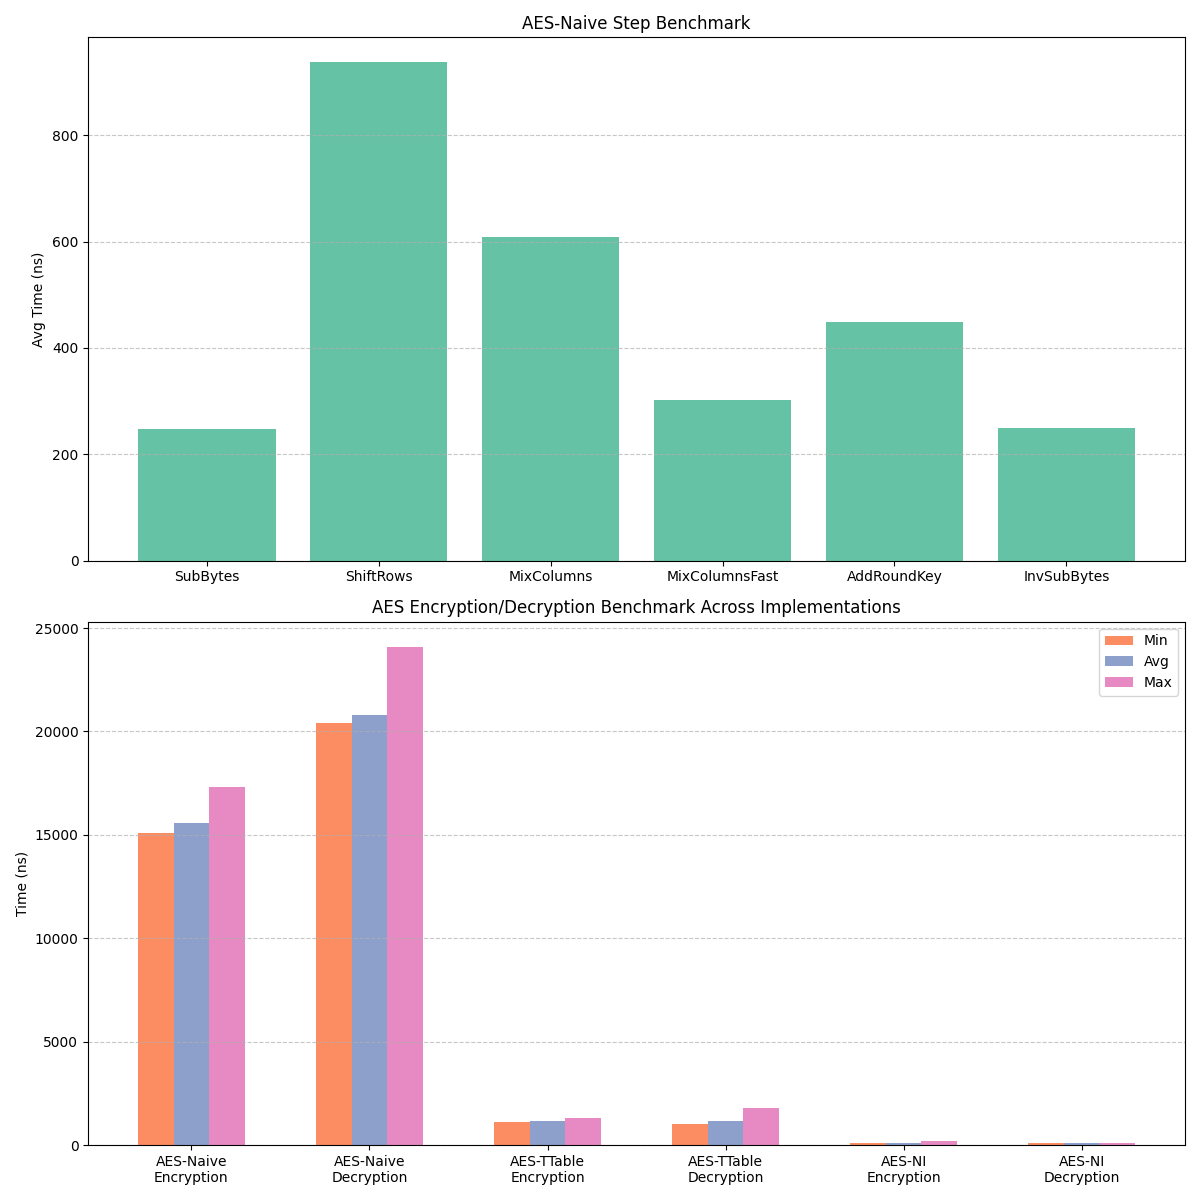
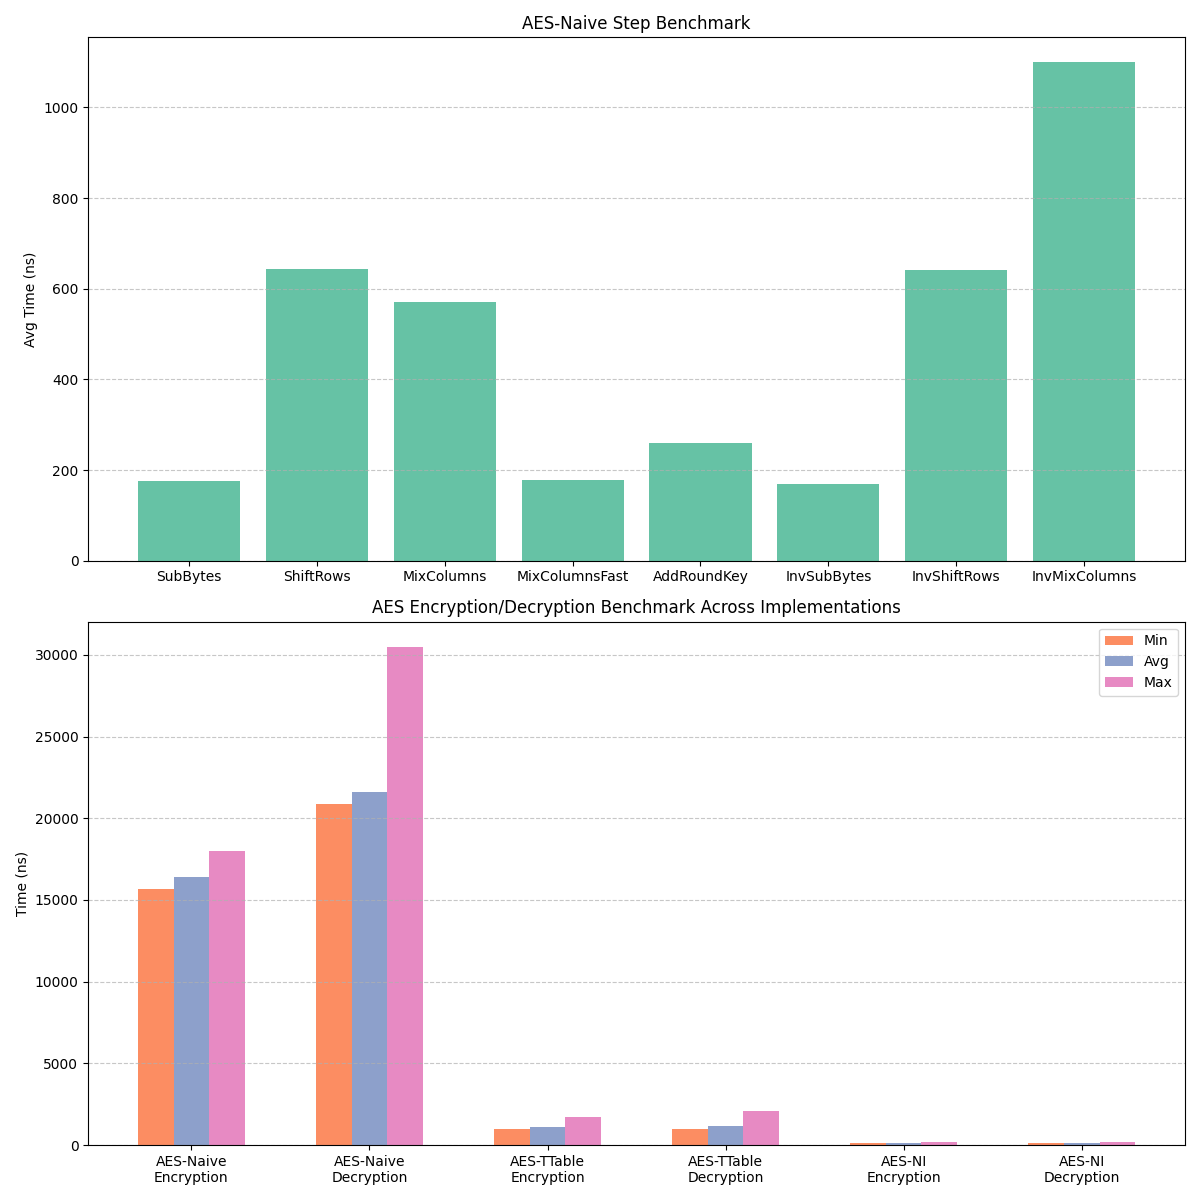
More Graphs

diff --git a/src/plot_benchmark.py b/src/plot_benchmark.py
@@ -1,75 +1,213 @@
-import pandas as pd
+# import pandas as pd
 
+# import matplotlib
+# matplotlib.use('TkAgg')
+# import matplotlib.pyplot as plt
+# import numpy as np
+
+# from pathlib import Path
+
+# # ---------- Load Data ----------
+
+# steps_file = Path("..") / "benchmark" / "benchmark_results.csv"
+# aes_file   = Path("..") / "benchmark" / "benchmark_AES.csv"
+
+# df_steps = pd.read_csv(steps_file)
+# df_all   = pd.read_csv(aes_file)
+
+# # AES-Naive steps
+# aes_naive = df_steps[df_steps['Implementation'] == 'AES-Naive']
+# steps = ['AddRoundKey','SubBytes', 'ShiftRows', 'MixColumns', 'MixColumnsFast', 'InvMixColumns', 'InvSubBytes', 'InvShiftRows']
+# aes_naive_steps = aes_naive[aes_naive['Operation'].isin(steps)]
+
+# # All implementations
+# implementations = ['AES-Naive', 'AES-TTable', 'AES-NI']
+# operations = ['Encryption', 'Decryption']
+# bar_width = 0.2
+
+# # ---------- Create figure with 2 subplots (vertical layout) ----------
+# fig, axes = plt.subplots(2, 1, figsize=(12,12))
+
+# # Increase vertical spacing
+# plt.subplots_adjust(hspace=0.4)
+
+# # ---------- Color Palette ----------
+# colors = plt.get_cmap('Set2').colors  # nice pastel palette
+
+# # --- Top subplot: AES-Naive steps ---
+# axes[0].bar(aes_naive_steps['Operation'], aes_naive_steps['Avg_ns'], color=colors[0])
+# axes[0].set_ylabel("Avg Time (ns)")
+# axes[0].set_title("AES-Naive Step Benchmark")
+# axes[0].set_xticks(range(len(aes_naive_steps['Operation'])))
+# axes[0].set_xticklabels(aes_naive_steps['Operation'], rotation=0)
+# axes[0].grid(axis='y', linestyle='--', alpha=0.7)
+
+# # --- Bottom subplot: Min/Avg/Max for Encrypt/Decrypt across implementations ---
+# x_labels = []
+# min_vals, avg_vals, max_vals = [], [], []
+
+# # Build data for plotting
+# for impl in implementations:
+#     for op in operations:
+#         subset = df_all[(df_all['Implementation'] == impl) & (df_all['Operation'] == op)]
+#         min_vals.append(subset['Min_ns'].values[0])
+#         avg_vals.append(subset['Avg_ns'].values[0])
+#         max_vals.append(subset['Max_ns'].values[0])
+#         x_labels.append(f"{impl}\n{op}")
+
+# index = np.arange(len(x_labels))
+
+# axes[1].bar(index - bar_width, min_vals, bar_width, label='Min', color=colors[1])
+# axes[1].bar(index, avg_vals, bar_width, label='Avg', color=colors[2])
+# axes[1].bar(index + bar_width, max_vals, bar_width, label='Max', color=colors[3])
+
+# axes[1].set_xticks(index)
+# axes[1].set_xticklabels(x_labels, rotation=0)
+# axes[1].set_ylabel("Time (ns)")
+# axes[1].set_title("AES Encryption/Decryption Benchmark Across Implementations")
+# axes[1].legend()
+# axes[1].grid(axis='y', linestyle='--', alpha=0.7)
+
+# # Save and show
+# plt.tight_layout()
+# fig_path = Path("..") / "benchmark" / "aes_combined_vertical_colored.png"
+# plt.savefig(fig_path)
+# plt.show()
+
+
+
+# ---------------- 4. AES-NI vs AES-Botan ----------------
+# for i, op in enumerate(['Encryption','Decryption']):
+#     ni = df_all[(df_all['Implementation'] == 'AES-NI') & (df_all['Operation'] == op)]
+#     botan = df_all[(df_all['Implementation'] == 'AES-Botan') & (df_all['Operation'] == op)]
+#     idx = np.arange(2)
+#     axes[3].bar(idx[0], ni['Avg_ns'].values[0], color=colors[2], label='AES-NI' if i==0 else "")
+#     axes[3].bar(idx[1], botan['Avg_ns'].values[0], color=colors[3], label='AES-Botan' if i==0 else "")
+# axes[3].set_xticks([0,1])
+# axes[3].set_xticklabels(['AES-NI', 'AES-Botan'])
+# axes[3].set_ylabel("Avg Time (ns)")
+# axes[3].set_title("AES-NI vs AES-Botan")
+# axes[3].grid(axis='y', linestyle='--', alpha=0.7)
+# axes[3].legend()
+
+import pandas as pd
 import matplotlib
-matplotlib.use('TkAgg')
+matplotlib.use('TkAgg')  # interactive backend
 import matplotlib.pyplot as plt
 import numpy as np
-
 from pathlib import Path
 
 # ---------- Load Data ----------
-
 steps_file = Path("..") / "benchmark" / "benchmark_results.csv"
 aes_file   = Path("..") / "benchmark" / "benchmark_AES.csv"
 
 df_steps = pd.read_csv(steps_file)
 df_all   = pd.read_csv(aes_file)
 
-# AES-Naive steps
-aes_naive = df_steps[df_steps['Implementation'] == 'AES-Naive']
-steps = ['SubBytes', 'ShiftRows', 'MixColumns', 'MixColumnsFast', 'AddRoundKey', 'InvSubBytes']
-aes_naive_steps = aes_naive[aes_naive['Operation'].isin(steps)]
+colors = plt.get_cmap('Set2').colors
 
-# All implementations
+# ---------- 1. AES-Naive Steps ----------
+aes_naive = df_steps[df_steps['Implementation'] == 'AES-Naive']
+steps_order = ['AddRoundKey','SubBytes', 'ShiftRows', 'MixColumns', 'MixColumnsFast', 
+               'InvMixColumns', 'InvSubBytes', 'InvShiftRows']
+aes_naive_steps = aes_naive[aes_naive['Operation'].isin(steps_order)].set_index('Operation').reindex(steps_order)
+
+fig1, ax1 = plt.subplots(figsize=(12,6))
+ax1.bar(aes_naive_steps.index, aes_naive_steps['Avg_ns'], color=colors[:len(steps_order)])
+ax1.set_ylabel("Avg Time (ns)")
+ax1.set_title("AES-Naive Step Benchmark")
+ax1.grid(axis='y', linestyle='--', alpha=0.7)
+plt.tight_layout()
+fig1.savefig(Path("..") / "benchmark" / "aes_naive_steps.png", dpi=200)
+
+# ---------- 2. AES Implementations Encryption/Decryption ----------
 implementations = ['AES-Naive', 'AES-TTable', 'AES-NI']
 operations = ['Encryption', 'Decryption']
-bar_width = 0.2
 
-# ---------- Create figure with 2 subplots (vertical layout) ----------
-fig, axes = plt.subplots(2, 1, figsize=(12,12))
-
-# Increase vertical spacing
-plt.subplots_adjust(hspace=0.4)
-
-# ---------- Color Palette ----------
-colors = plt.get_cmap('Set2').colors  # nice pastel palette
-
-# --- Top subplot: AES-Naive steps ---
-axes[0].bar(aes_naive_steps['Operation'], aes_naive_steps['Avg_ns'], color=colors[0])
-axes[0].set_ylabel("Avg Time (ns)")
-axes[0].set_title("AES-Naive Step Benchmark")
-axes[0].set_xticks(range(len(aes_naive_steps['Operation'])))
-axes[0].set_xticklabels(aes_naive_steps['Operation'], rotation=0)
-axes[0].grid(axis='y', linestyle='--', alpha=0.7)
-
-# --- Bottom subplot: Min/Avg/Max for Encrypt/Decrypt across implementations ---
 x_labels = []
 min_vals, avg_vals, max_vals = [], [], []
 
-# Build data for plotting
 for impl in implementations:
     for op in operations:
         subset = df_all[(df_all['Implementation'] == impl) & (df_all['Operation'] == op)]
-        min_vals.append(subset['Min_ns'].values[0])
-        avg_vals.append(subset['Avg_ns'].values[0])
-        max_vals.append(subset['Max_ns'].values[0])
+        if not subset.empty:
+            min_vals.append(subset['Min_ns'].values[0])
+            avg_vals.append(subset['Avg_ns'].values[0])
+            max_vals.append(subset['Max_ns'].values[0])
+        else:
+            min_vals.append(np.nan)
+            avg_vals.append(np.nan)
+            max_vals.append(np.nan)
         x_labels.append(f"{impl}\n{op}")
 
 index = np.arange(len(x_labels))
+bar_width = 0.25
 
-axes[1].bar(index - bar_width, min_vals, bar_width, label='Min', color=colors[1])
-axes[1].bar(index, avg_vals, bar_width, label='Avg', color=colors[2])
-axes[1].bar(index + bar_width, max_vals, bar_width, label='Max', color=colors[3])
-
-axes[1].set_xticks(index)
-axes[1].set_xticklabels(x_labels, rotation=0)
-axes[1].set_ylabel("Time (ns)")
-axes[1].set_title("AES Encryption/Decryption Benchmark Across Implementations")
-axes[1].legend()
-axes[1].grid(axis='y', linestyle='--', alpha=0.7)
-
-# Save and show
+fig2, ax2 = plt.subplots(figsize=(14,6))
+ax2.bar(index - bar_width, min_vals, bar_width, label='Min', color=colors[1])
+ax2.bar(index, avg_vals, bar_width, label='Avg', color=colors[2])
+ax2.bar(index + bar_width, max_vals, bar_width, label='Max', color=colors[3])
+ax2.set_xticks(index)
+ax2.set_xticklabels(x_labels, rotation=45, ha='right')
+ax2.set_ylabel("Time (ns)")
+ax2.set_title("AES Implementations: Encryption/Decryption Min/Avg/Max")
+ax2.legend()
+ax2.grid(axis='y', linestyle='--', alpha=0.7)
 plt.tight_layout()
-fig_path = Path("..") / "benchmark" / "aes_combined_vertical_colored.png"
-plt.savefig(fig_path)
+fig2.savefig(Path("..") / "benchmark" / "aes_impl_enc_dec.png", dpi=200)
+
+# ---------- 3. AES-Naive vs AES-Naive-Int ----------
+aes_naive_int_file = Path("..") / "benchmark" / "benchmark_AES.csv"
+df_naive_int = pd.read_csv(aes_naive_int_file) if aes_naive_int_file.exists() else pd.DataFrame()
+if not df_all.empty:
+    naive_ops = ['Encryption', 'Decryption']
+    fig3, ax3 = plt.subplots(figsize=(8,6))
+    for i, op in enumerate(naive_ops):
+        subset_naive = df_all[(df_all['Implementation'] == 'AES-Naive') & (df_all['Operation'] == op)]
+        subset_int   = df_all[(df_all['Implementation'] == 'AES-Naive-Int') & (df_all['Operation'] == op)]
+        ax3.bar(i*2, subset_naive['Avg_ns'].values[0], color=colors[0], label='Naive' if i==0 else "")
+        ax3.bar(i*2+1, subset_int['Avg_ns'].values[0], color=colors[1], label='Naive-Int' if i==0 else "")
+    ax3.set_xticks([0.5, 2.5])
+    ax3.set_xticklabels(['Encryption','Decryption'])
+    ax3.set_ylabel("Avg Time (ns)")
+    ax3.set_title("AES-Naive vs AES-Naive-Int")
+    ax3.legend()
+    ax3.grid(axis='y', linestyle='--', alpha=0.7)
+    plt.tight_layout()
+    fig3.savefig(Path("..") / "benchmark" / "aes_naive_vs_naive_int.png", dpi=200)
+
+
+# ---------- 5. Key Expansion ----------
+# Use the step-level benchmark CSV (df_steps) instead of df_all
+key_expansion_ops = df_steps[df_steps['Operation'].str.contains("KeyExpansion")]
+
+x_labels = key_expansion_ops['Implementation'].unique()
+min_vals, avg_vals, max_vals = [], [], []
+
+for impl in x_labels:
+    subset = key_expansion_ops[key_expansion_ops['Implementation'] == impl]
+    if not subset.empty:
+        min_vals.append(subset['Min_ns'].values[0])
+        avg_vals.append(subset['Avg_ns'].values[0])
+        max_vals.append(subset['Max_ns'].values[0])
+    else:
+        min_vals.append(np.nan)
+        avg_vals.append(np.nan)
+        max_vals.append(np.nan)
+
+index = np.arange(len(x_labels))
+fig5, ax5 = plt.subplots(figsize=(12,6))
+ax5.bar(index - bar_width, min_vals, bar_width, color=colors[1], label='Min')
+ax5.bar(index, avg_vals, bar_width, color=colors[2], label='Avg')
+ax5.bar(index + bar_width, max_vals, bar_width, color=colors[3], label='Max')
+ax5.set_xticks(index)
+ax5.set_xticklabels(x_labels)
+ax5.set_ylabel("Time (ns)")
+ax5.set_title("AES Key Expansion Benchmark (Step-Level Results)")
+ax5.legend()
+ax5.grid(axis='y', linestyle='--', alpha=0.7)
+plt.tight_layout()
+fig5.savefig(Path("..") / "benchmark" / "aes_key_expansion_steps.png", dpi=200)
+
+
 plt.show()

diff --git a/src/main.cpp b/src/main.cpp
@@ -247,6 +247,12 @@ int main()
      write_csv_row(csv_file, "AES-Naive", "MixColumnsFast", stats_naive_mixcolumnsfast);
      write_csv_row(csv_file, "AES-Naive", "AddRoundKey", stats_naive_addroundkey);
      write_csv_row(csv_file, "AES-Naive", "InvSubBytes", stats_naive_invsubbytes);
+     write_csv_row(csv_file, "AES-Naive", "InvShiftRows", stats_naive_invshiftrows);
+     write_csv_row(csv_file, "AES-Naive", "InvMixColumns", stats_naive_invmixcolumns);
+     write_csv_row(csv_file, "AES-Naive", "KeyExpansion", stats_naive_keyexpansion);
+     write_csv_row(csv_file, "AES-TTable", "KeyExpansion", stats_ttable_keyExp);
+     write_csv_row(csv_file, "AES-TTable", "InitTables", stats_ttable_initTables);
+     write_csv_row(csv_file, "AES-NI", "KeyExpansion", stats_ni_keyExp);
 
      csv_file.close();
 
@@ -260,6 +266,10 @@ int main()
      write_csv_row(csv_file2, "AES-TTable", "Decryption", stats_ttable_dec);
      write_csv_row(csv_file2, "AES-NI", "Encryption", stats_ni_enc);
      write_csv_row(csv_file2, "AES-NI", "Decryption", stats_ni_dec);
+    //  write_csv_row(csv_file2, "AES-Botan", "Encryption", stats_botan_enc);
+    //  write_csv_row(csv_file2, "AES-Botan", "Decryption", stats_botan_dec);
+     write_csv_row(csv_file2, "AES-Naive-Int", "Encryption", stats_int_enc);
+     write_csv_row(csv_file2, "AES-Naive-Int", "Decryption", stats_int_dec);
 
      csv_file2.close();
 
@@ -269,6 +279,7 @@ int main()
 
      // =========== FILE ENCRYPTION/DECRYPTION ==============
 
+     //TODO: encrypt/decrypt with all three algo and compare throughput with block to block
      path input_file = path("..") / "file" / "input.jpg";
      path encrypted_file = path("..") / "file" / "output_encrypted.jpg";
      path decrypted_file = path("..") / "file" / "output_decrypted.jpg";
@@ -276,10 +287,9 @@ int main()
      AesFileIo file_io;
 
      std::cout << "Encrypting with AES-Naive...\n";
-    file_io.encrypt_file(input_file.string(), encrypted_file.string(), aes_naive);
+     file_io.encrypt_file(input_file.string(), encrypted_file.string(), aes_naive);
 
      std::cout << "Decrypting with AES-Naive...\n";
-
      file_io.decrypt_file(encrypted_file.string(), decrypted_file.string(), aes_naive);
 
      return 0;

diff --git a/src/aes_naive.cpp b/src/aes_naive.cpp
@@ -110,6 +110,30 @@ void AesNaive::inv_sub_bytes(State &state)
 }
 
 // Second operation of the encryption process (in the looping rounds)
+
+//NOTE: SLOWER THAN MIX COLUMNS BECAUSE OF ROTATE!!!
+
+// void AesNaive::shift_rows(State &state)
+// {
+//     // Row 1: shift left by 1
+//     Byte tmp = state[1][0];
+//     state[1][0] = state[1][1];
+//     state[1][1] = state[1][2];
+//     state[1][2] = state[1][3];
+//     state[1][3] = tmp;
+
+//     // Row 2: shift left by 2
+//     std::swap(state[2][0], state[2][2]);
+//     std::swap(state[2][1], state[2][3]);
+
+//     // Row 3: shift left by 3 (or right by 1)
+//     tmp = state[3][3];
+//     state[3][3] = state[3][2];
+//     state[3][2] = state[3][1];
+//     state[3][1] = state[3][0];
+//     state[3][0] = tmp;
+// }
+
 void AesNaive::shift_rows(State &state)
 {
     // Row 0: No shift

diff --git a/include/aes_benchmark.h b/include/aes_benchmark.h
@@ -50,9 +50,9 @@ std::string to_string(const std::string &aes_name) const
         << "Avg(ns): " << avg_time_ns << "ns \r\n"
         << "Median(ns): " << median_time_ns << "ns \r\n"
         << "StdDev(ns): " << stddev_time_ns << "ns \r\n"
-        << "Throughput(MB/s): " << avg_throughput_mb_s << "ns \r\n"
+        << "Throughput(MB/s): " << avg_throughput_mb_s << " MB/s \r\n"
         << "Latency(ns): " << latency_ns << "ns \r\n"
-        << "Cycles/byte: " << avg_cycles_per_byte << "ns \n";
+        << "Cycles/byte: " << avg_cycles_per_byte << " \n";
 
     return oss.str();
 }
